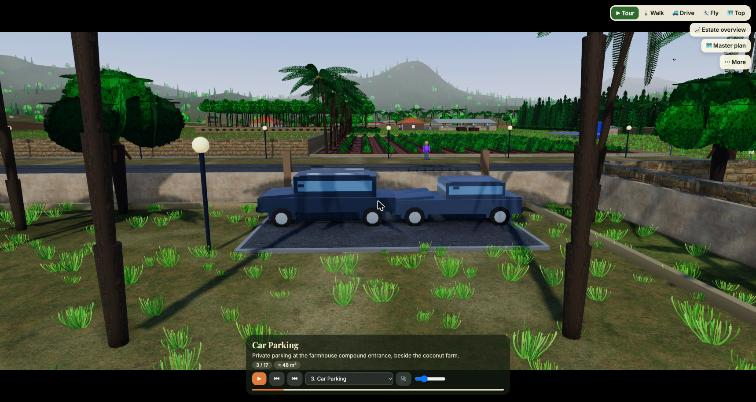
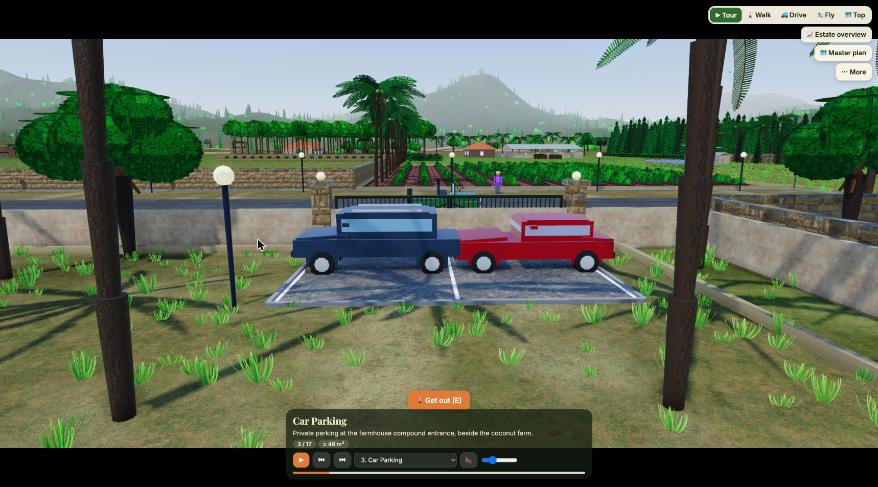
docs: compound entrance + walk-control fix in the log; new parking screenshot
Claude-Session: https://claude.ai/code/session_01HY4GDgH8VaA8t3zj4iwCko

diff --git a/docs/upgrade-log.md b/docs/upgrade-log.md
@@ -68,6 +68,14 @@ Mobile: **UNVERIFIED** — a real phone / Moto G GPU cannot be emulated from thi
 ### Console
 Zero errors on the live build after `483c062` (one `ReferenceError` was shipped in `01fa102` and fixed in the next commit).
 
+## Phase 0.7 — compound entrance engineered (b461c20, 5603d00)
+
+| Item | Result |
+|---|---|
+| Walk controls | **VERIFIED** — left/right were mirrored in walk mode (keys + joystick); fixed, checked by measuring the camera displacement against the camera's right vector |
+| Farmhouse compound gate | **VERIFIED** — walls (boundary stone wall, compound fence, parking kerb) are now cut for a real 8 m opening; masonry pillars with lamp caps and a "FARMHOUSE" plate; double-leaf steel gate (rails, stiles, bars, diagonal brace) that opens for the jeep/visitor |
+| Driveway | **VERIFIED** — 9 m concrete apron with kerbs from the main-road edge to the gate; parking slab with bay markings and wheel stops; cars keep their data positions, sedan red / SUV navy |
+
 ## Before / after by stop
 
 | Stop | Before | After |
